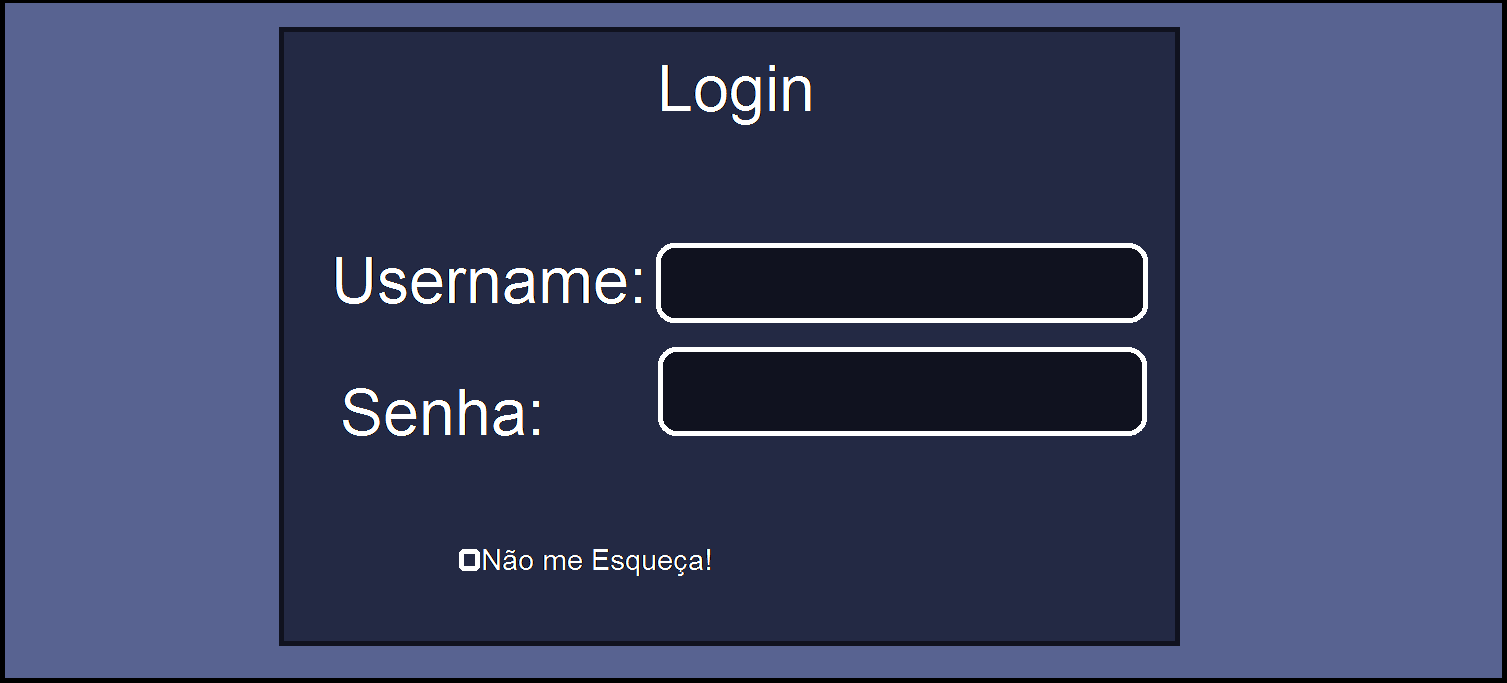
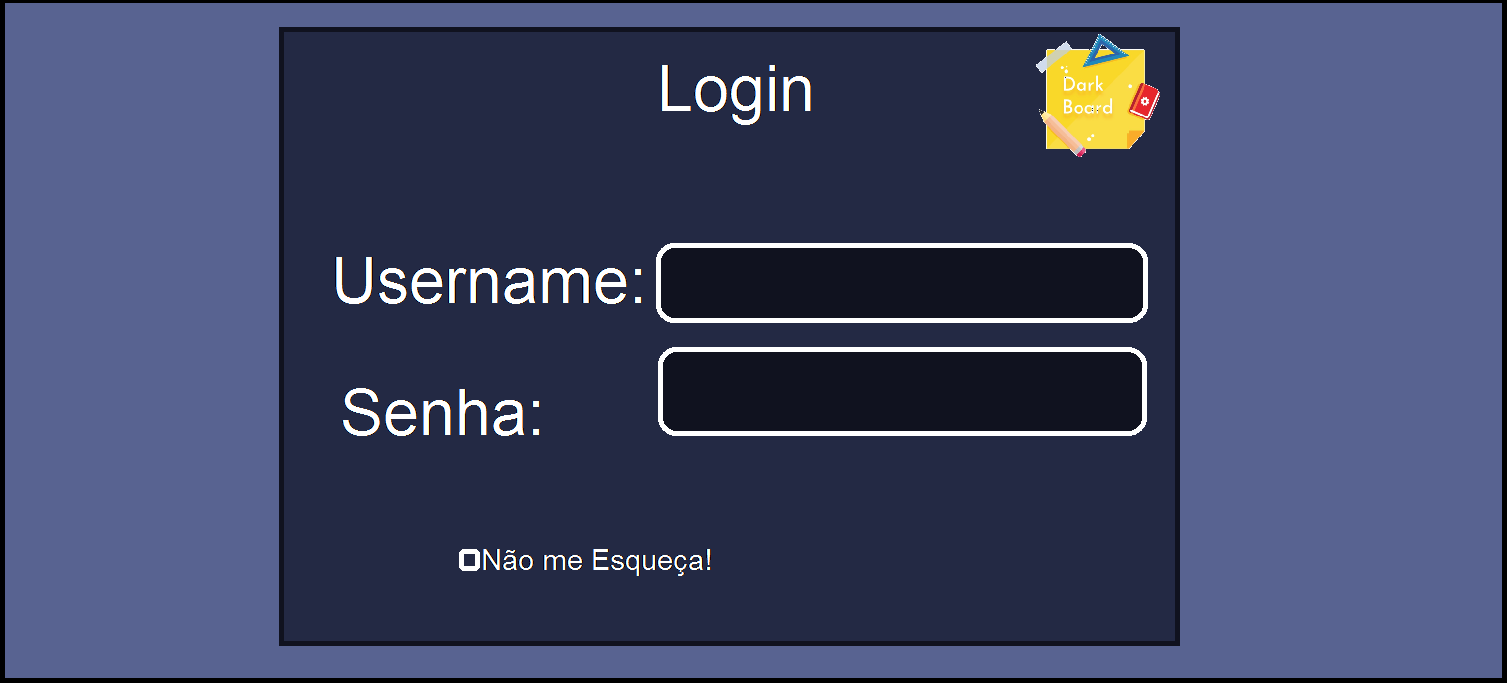
Usuario
a

Changed region(s): [[0.6861, 0.0615, 0.7797, 0.246]]

diff --git a/Html/Usuario.html b/Html/Usuario.html
@@ -1,7 +1,8 @@
 <html>
     <head>
-        <title>Darkboard</title>
-        <link rel='stylesheet' href='../css/home.css'>
+        <title>Usuario - Darkboard</title>
+        <link rel='stylesheet' href='../css/index.css'>
+        <link rel='stylesheet' href='../css/usuario.css'>
         <meta name="viewport" content="width=device-width, initial-scale=1.0">
         <link rel='shortcut icon' href='../img/icon.ico' sizes="1000x1000">
         <meta http-equiv="X-UA-Compatible" content="ie=edge">
@@ -15,8 +16,8 @@
 
         <ul class='aba'>
                 <a href='#'><li><img class='icon' src="../img/icons/bell.png" title='Notificacoes'><number></number></li></a>
-                <a onclick="IrPraUsu()"><li><img class='icon' src="../img/icons/user.png" title='Usuario'></li></a>
                 <a href='Agenda.html'><li><img class='icon' src="../img/icons/checklist.png" title='Tarefas'></li></a>
+                <a href='Home.html'><li><img class='icon' src="../img/icons/home.png" title='Home'></li></a>
                 <a href='#'><li><img class='icon' src="../img/icons/classroom.png" title='Salas'></li></a>
                 <a href='#'><li><img class='icon' src="../img/icons/calendario.png" title='Calendario'></li></a>
         </ul>
@@ -29,53 +30,22 @@
             <li class='logo'><a href='#'><img src='../img/logo.png'></a></li>
         </ul>
 
-        <div class="carrosel">
-            <ul>
-                <li>
-                    <div class="carrosel-container">
-                        <img src="../img/1.png" alt="">
-                    </div>
-                </li>
-                <li>
-                    <div class="carrosel-container">
-                        <img src="../img/2.png" alt="">
-                    </div>
-                </li>
-                <li>
-                    <div class="carrosel-container">
-                      <img src="../img/3.png" alt="">
-                     </div>
-                </li>
-                <li>
-                    <div class="carrosel-container">
-                         <img src="../img/4.png" alt="">
-                    </div>
-                </li>
-                <li>
-                    <div class="carrosel-container">
-                         <img src="../img/5.png" alt="">
-                    </div>
-                </li>
+        <div class='usuario'>
+            <p class='nome'>(Nome)</p>
+            <img class='avatar' src='../img/icons/user.png'>
+
+            <ul class='Info'>
+                <li>Nome Completo:</li>
+                <li>Email:</li>
             </ul>
+            <div class='desc'>
+                Descrição:
+                <p>(Insert uma linda descrição Aqui)</p>
+            </div>
         </div>
 
-        <div class="infoBox">
-            <h1>O que é DarkBoard?</h1>
-            <p>Darkboard é um projeto desenvolvido para acabar com vários problemas que os<br> 
-             alunos e professores de hoje em dia enfrentam,como a falta de organização,<br>
-             planejamento e informação. Desta forma esse site visa facilitar a comunicação<br>
-             entre o professor e o aluno e resolver tais dilemas. Ajudar o professor no<br>
-             cálculo de notas e anunciar atividades como projetos, provas, exercícios e <br>
-             comunicados.<br> Ambos terão acesso a uma agenda onde poderão anotar seus<br>
-             afazeres e quando completados, remove-los e dá-los como concluidos. poderão<br>
-             participar de mais de uma classe, poderão procurar classes para participarem.<br>
-             Por fim terão acesso a um calendário, onde as datas importantes ficarão<br>
-             destacadas, indicando o afazer e o horário que terá naquele dia.</p>
-        </div>      
-        
-        <script type="text/javascript">
-
-            var not =0;
+        <script>
+        var not =0;
 
             if(not == 0)
             {
@@ -107,14 +77,6 @@
                     menu = false;
                 }
             })
-
-            function IrPraUsu()
-            {
-                if(sessionStorage.getItem("User") != null)
-                    location.href='Usuario.html';
-                else
-                    location.href='Cadastro.html';
-            }
         </script>
     </body>
 </html>

diff --git a/Html/Login.html b/Html/Login.html
@@ -9,8 +9,10 @@
         <script src="https://ajax.googleapis.com/ajax/libs/jquery/3.3.1/jquery.min.js"></script>
     </head>
     <body>
+        <p>Não tem Conta? <a href='Cadastro.html'>Cadastre-se Aqui!</a></p>
         <div class='frmLogin'>
             <label>Login</label><br>
+            <img class='logo' src='../img/logo.png'>
             <div class='info'>
                 <ul>
                     <li>Username:</li>
@@ -37,8 +39,13 @@
                     if($("#lembrar").prop("checked"))
                         localStorage.setItem("User", obj.user);
 
-                    localStorage.clear();
-                    alert("Logado com Sucesso");
+                    sessionStorage.setItem("User", obj.user);
+
+                    sessionStorage.clear();//Apagar Deps
+                    localStorage.clear();//Apagar Deps
+                    
+                    location.href='Home.html';
+
                 }
                 else{
                     alert("Valores necessários não inseridos");

diff --git a/Css/usuario.css b/Css/usuario.css
@@ -1,0 +1,47 @@
+.usuario{
+    text-align: center;
+    border: solid black 4px;
+    border-radius: 15px;
+    width: 700px;
+    height: 600px;
+    position:fixed;
+    top:110px;  
+    left: 25.5%;
+    background-color: #101633;
+    font-family: DejaVu Sans Light;
+}
+
+.usuario ul{
+    font-size: 20px;
+    text-align: left;
+    list-style: none;
+}
+
+.usuario ul li{
+    margin-bottom: 35px;
+}
+
+.avatar
+{
+    margin-top:5px;
+    width: 30%;
+    margin-left: 20px;
+}
+
+.usuario .nome{
+    margin-top: 0px;
+    font-family: Freestyle Script;
+    font-size:30px;
+    text-decoration: none;
+}
+
+.desc{
+    background-color: #17365c;
+    border-radius: 15px;
+    border: black 4px solid;
+    height: 175px;
+}
+
+.desc p{
+    text-align: left;
+}

diff --git a/Css/login.css b/Css/login.css
@@ -70,3 +70,22 @@ button{
 button:hover{
     background-color: #36406B;
 }
+
+.logo{
+   width:150px;
+   height: 150px;
+   position: fixed;
+   left: 70%;
+   bottom: 70%;
+}
+p{
+    position: fixed;
+    left:270px;
+    top:35px;
+    font-size:20px;
+}
+
+p a{
+    color:#D5BB6D;
+    text-decoration: none;
+}
